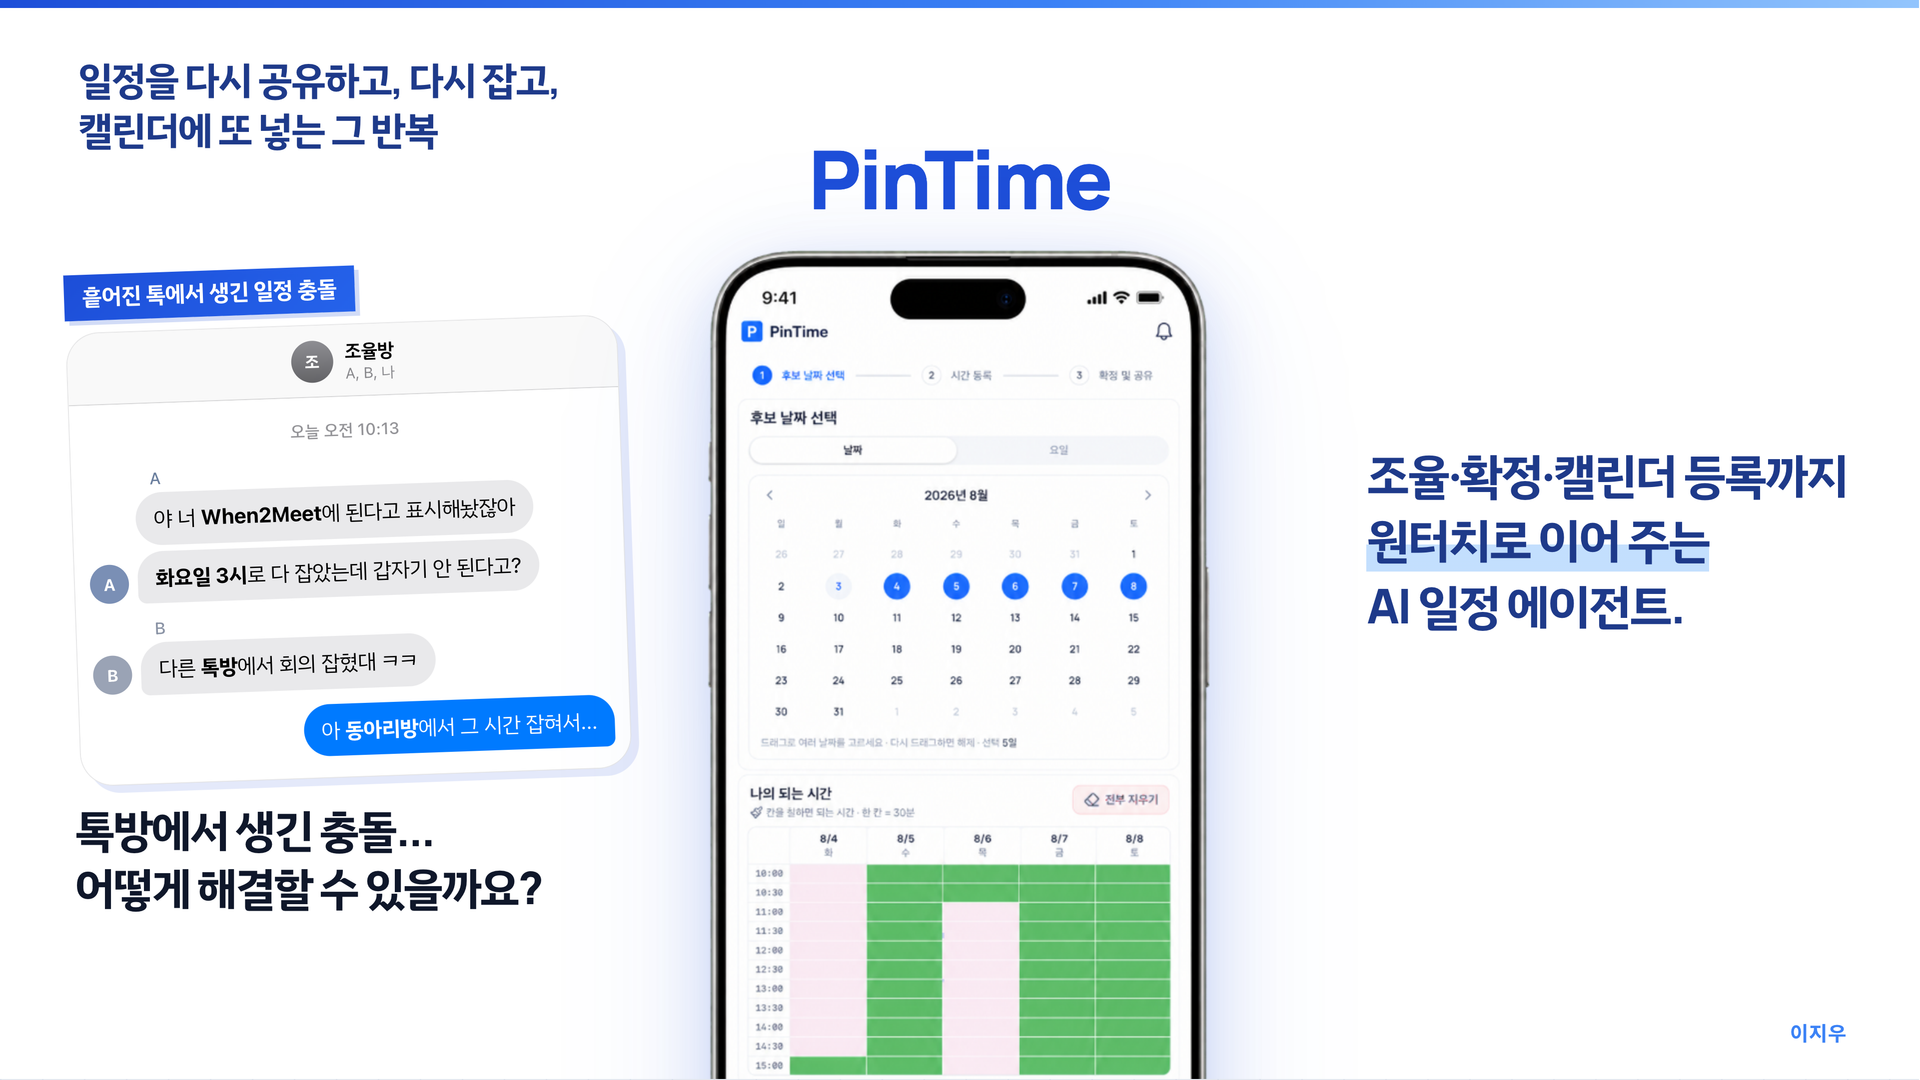
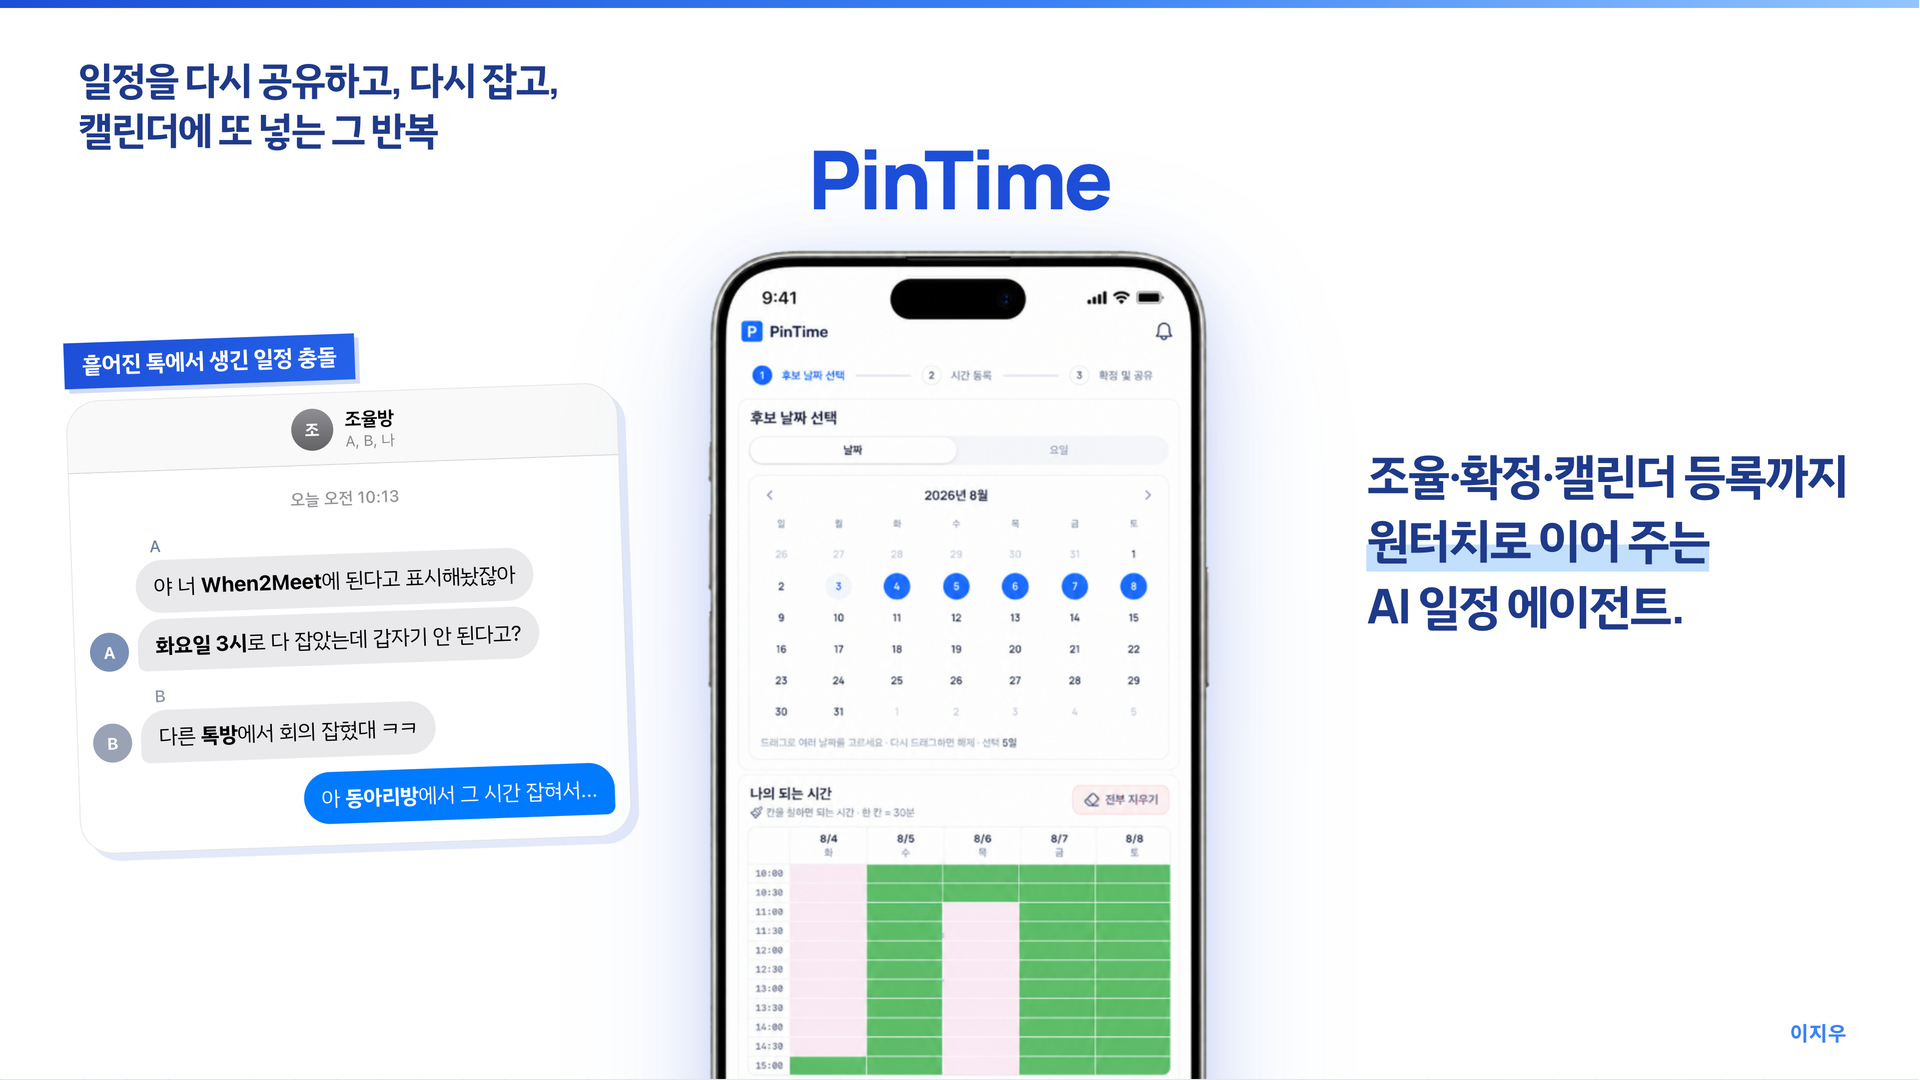
Remove cover ask copy under the chat.

diff --git a/public/pitch.html b/public/pitch.html
@@ -1220,17 +1220,6 @@
         align-self: center;
       }
 
-      .cover-ask {
-        margin: 0;
-        font-family: Manrope, 'IBM Plex Sans KR', sans-serif;
-        font-size: 30px;
-        font-weight: 800;
-        letter-spacing: -0.04em;
-        line-height: 1.28;
-        color: #0f172a;
-        transform: translate(2px, 2px);
-      }
-
       .cover-chat-wrap {
         justify-self: stretch;
         align-self: center;
@@ -2523,9 +2512,6 @@
                 </div>
               </div>
             </div>
-            <p class="cover-ask">
-              톡방에서 생긴 충돌...<br />어떻게 해결할 수 있을까요?
-            </p>
             </div>
 
             <div class="cover-phone-col">
